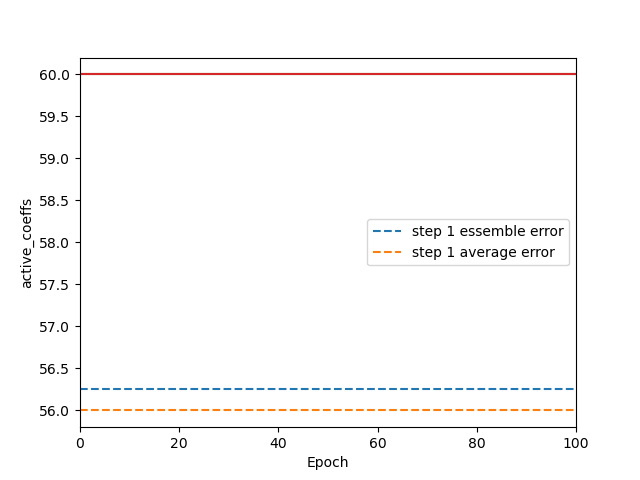
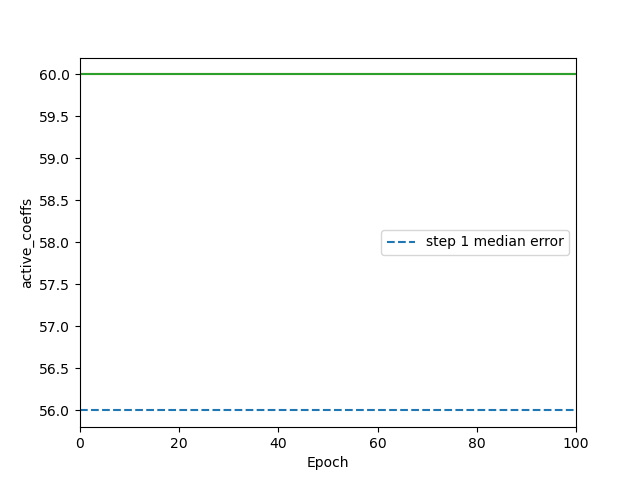
generic commit

diff --git a/src/ensemble_test.py b/src/ensemble_test.py
@@ -303,7 +303,7 @@ def step_2_plots(E_loss_dicts2, E_loss_dict1, Indep_loss_dict1, exp_label = 'exp
             step_1_loss_vec = np.log(np.asarray(step_1_loss_vec))
             plt.plot(x, step_1_eloss_vec, linestyle='dashed', label='step 1 essemble error')
 
-        plt.plot(x, step_1_loss_vec, linestyle='dashed', label='step 1 average error')
+        plt.plot(x, step_1_loss_vec, linestyle='dashed', label='step 1 min error')
 
         for dict in E_loss_dicts2:
             plot_vec = dict[key][:len(x)]
@@ -353,9 +353,9 @@ def basic_test(exp_label = 'exp', model_save_name = 'model0', small = False):
                          'n_encoders': 4, 'n_decoders': 4, 'criterion': 'avg', 's1_epochs': 1000,
                          'test_freq': 100, 'exp_label': 'exp', 's2_epochs': 0, 'crossval_freq': 100}
     else:
-        params, training_data, validation_data = get_lorenz_params(train_size=100, test_size=20)
+        params, training_data, validation_data = get_lorenz_params(train_size=40, test_size=20)
         params_update = {'replacement': True, 'coefficient_initialization': 'constant', 'pretrain_epochs': 200,
-                         'n_encoders': 20, 'n_decoders': 20, 'criterion': 'avg', 's1_epochs': 201,
+                         'n_encoders': 15, 'n_decoders': 15, 'criterion': 'avg', 's1_epochs': 7000,
                          'test_freq': 100, 'exp_label': 'exp', 's2_epochs': 0, 'crossval_freq': 100}
 
     params.update(params_update)
@@ -364,33 +364,50 @@ def basic_test(exp_label = 'exp', model_save_name = 'model0', small = False):
     agg_comparison_plots(model1,exp_label)
 
 
+def get_step1_min_losses(item_loss_dict):
+    loss_keys = ['decoder', 'sindy_x']
+    min_loss_dict = {'decoder': [], 'sindy_x': []}
+
+    item_loss_dict = {key:val for key,val in item_loss_dict.items() if len(val)}
+
+    for loss_key in loss_keys:
+        min_losses = []
+        for epoch in range(len(list(item_loss_dict.values())[0])):
+            loss_vals = [item_loss_dict[key][epoch] for key in item_loss_dict.keys() if key.startswith(loss_key)]
+            min_losses.append(float(np.min(np.asfarray(loss_vals))))
+        min_loss_dict[loss_key] = min_losses
+    return {'E_agr_Decoder': min_loss_dict['decoder'], 'E_agr_Sindy_x':  min_loss_dict['sindy_x']}
+
 
 
 def run():
-    basic_test(exp_label='plot_exp', model_save_name='model4', small=False)
+    basic_test(exp_label='plot_exp_med', model_save_name='model4', small=False)
     indep_model, bag_loader, test_loader = load_model('model4')
     net, Loss_dict,  E_loss_dict0 = train_eas_1(indep_model, bag_loader, test_loader, model_params = {'s1_epochs': 1})
-    s_1_losses = {'E_agr_Decoder': Loss_dict['decoder'][-1],
-                  'E_agr_Sindy_x': Loss_dict['sindy_x'][-1],
+    item_loss_dict = net.item_loss_dict
+    min_losses = get_step1_min_losses(item_loss_dict)
+    s_1_losses = {'E_agr_Decoder': min_losses['E_agr_Decoder'][-1],
+                  'E_agr_Sindy_x': min_losses['E_agr_Sindy_x'][-1],
                   'active_coeffs': Loss_dict['active_coeffs'][-1]}
+
     indep_model, bag_loader, test_loader = load_model('model4')
 
     indep_model.params['coefficient_initialization'] = 'constant'
-    indep_model.params['criterion'] = 'stability'
+    indep_model.params['criterion'] = 'avg'
 
 
     E_loss_dicts = []
-    n_trials = 5
+    n_trials = 2
     for i in range(n_trials):
         compressor_model = SindyNetTCompEnsemble(indep_model)
         model_params = compressor_model.params
-        model_params['s2_epochs'] = 200
+        model_params['s2_epochs'] = 7000
 
         net, Loss_dict, E_loss_dict1, bag_loader, test_loader = train_step2(compressor_model, bag_loader,
                                                                        test_loader, compressor_model.params)
         E_loss_dicts.append(E_loss_dict1)
 
-    step_2_plots(E_loss_dicts,E_loss_dict0, s_1_losses, exp_label='plot_exp')
+    step_2_plots(E_loss_dicts,E_loss_dict0, s_1_losses, exp_label='plot_exp_med')
 
 
 if __name__=='__main__':

diff --git a/src/translator_model.py b/src/translator_model.py
@@ -145,10 +145,10 @@ class SindyNetTCompEnsemble(nn.Module):
         self.params['stacked_decoder'], self.params['stacked_decoder_layers'] = self.Stacked_decoder(self.params)
         self.params['stacked_encoder'], self.params['stacked_encoder_layers'] = self.Stacked_encoder(self.params)
 
-        self.sindy_coeffs = [self.init_sindy_coefficients() for i in range(self.params['n_encoders'])]
-        self.sindy_coeffs = torch.nn.Parameter(torch.stack(self.sindy_coeffs), requires_grad=True)
+        #self.sindy_coeffs = [self.init_sindy_coefficients() for i in range(self.params['n_encoders'])]
+        #self.sindy_coeffs = torch.nn.Parameter(torch.stack(self.sindy_coeffs), requires_grad=True)
 
-        #self.sindy_coeffs = torch.nn.Parameter(self.init_sindy_coefficients(), requires_grad=True)
+        self.sindy_coeffs = torch.nn.Parameter(self.init_sindy_coefficients(), requires_grad=True)
         self.coefficient_mask = torch.tensor(deepcopy(self.params['coefficient_mask']),dtype=self.dtype, device=self.device)
         self.epoch = 0
         self.refresh_val_dict = True
@@ -405,7 +405,8 @@ class SindyNetTCompEnsemble(nn.Module):
         if not len(mask):
             mask = self.coefficient_mask
         if not len(coeffs):
-            coeffs = self.sindy_coeffs[encode_idx]
+            #coeffs = self.sindy_coeffs[encode_idx]
+            coeffs = self.sindy_coeffs
         return torch.matmul(Theta, mask * coeffs)
 
 
@@ -545,9 +546,6 @@ class SindyNetTCompEnsemble(nn.Module):
         x_stack = self.expand(x)
         x_stack_stack = self.expand(x_stack)
 
-        free_mem, total_mem = torch.cuda.mem_get_info()
-        mem_str = f'x_stack_stack has shape {x_stack_stack.shape}, Using {round(100 * (1 - (free_mem / total_mem)), 2)}% GPU mem'
-        print(mem_str)
 
         dx_stack = self.expand(dx)
         dx_stack_stack = self.expand(dx_stack)

diff --git a/src/ensemble_training.py b/src/ensemble_training.py
@@ -278,9 +278,6 @@ def train_step2(net, bag_loader, test_loader, model_params):
     return net, Loss_dict, E_loss_dict, bag_loader, test_loader
 
 
-
-
-
 def train_eas(model_params, train_params, training_data, validation_data):
     if torch.cuda.is_available():
         device = 'cuda:0'
